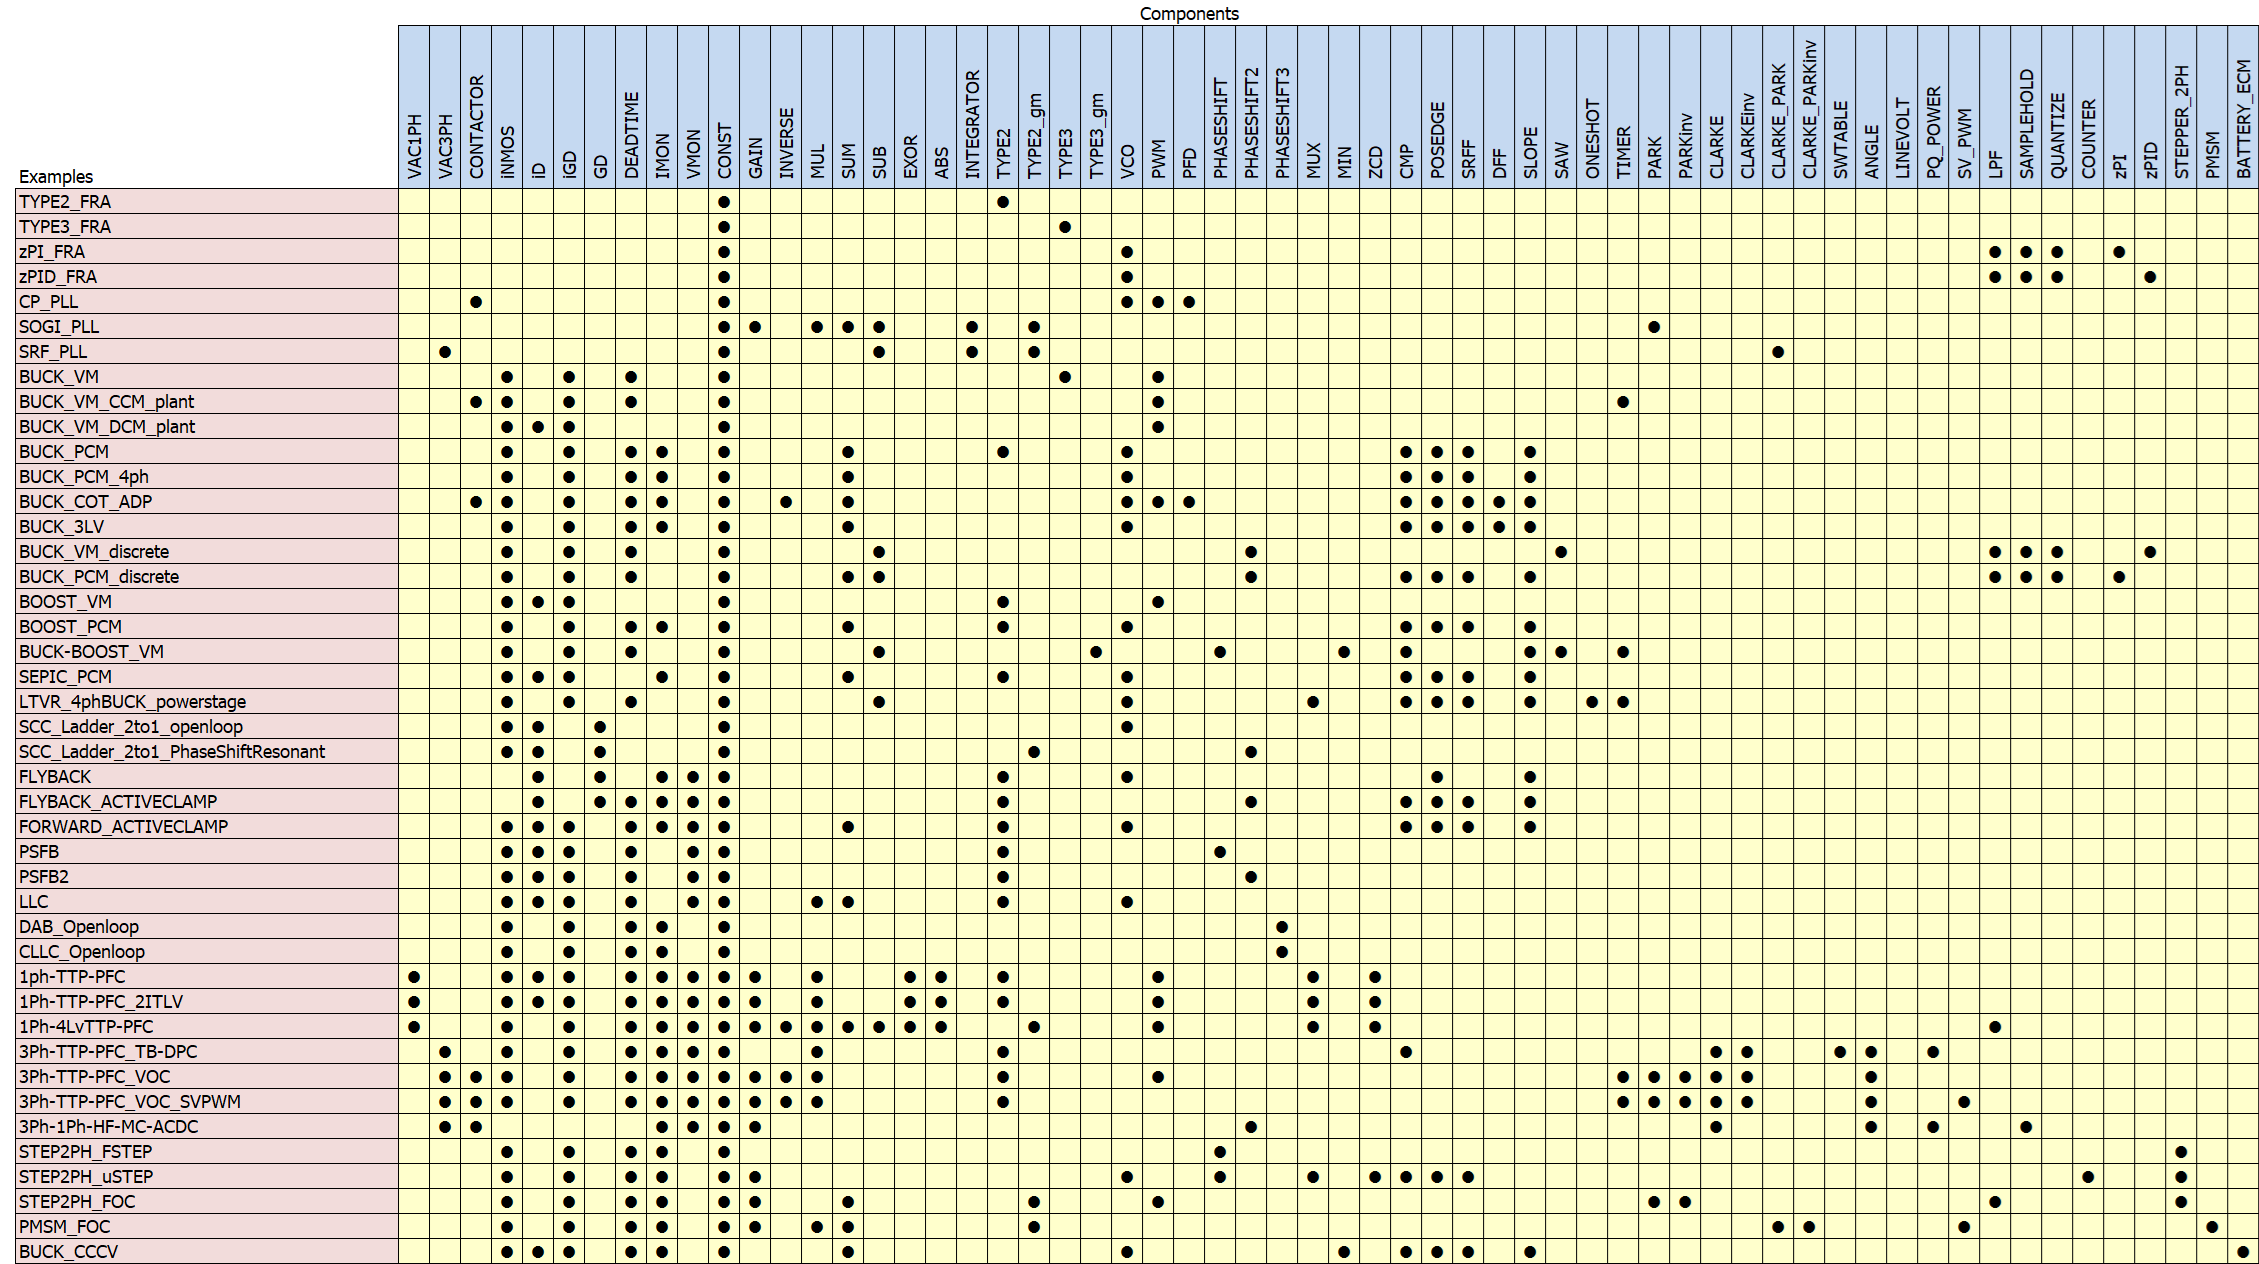
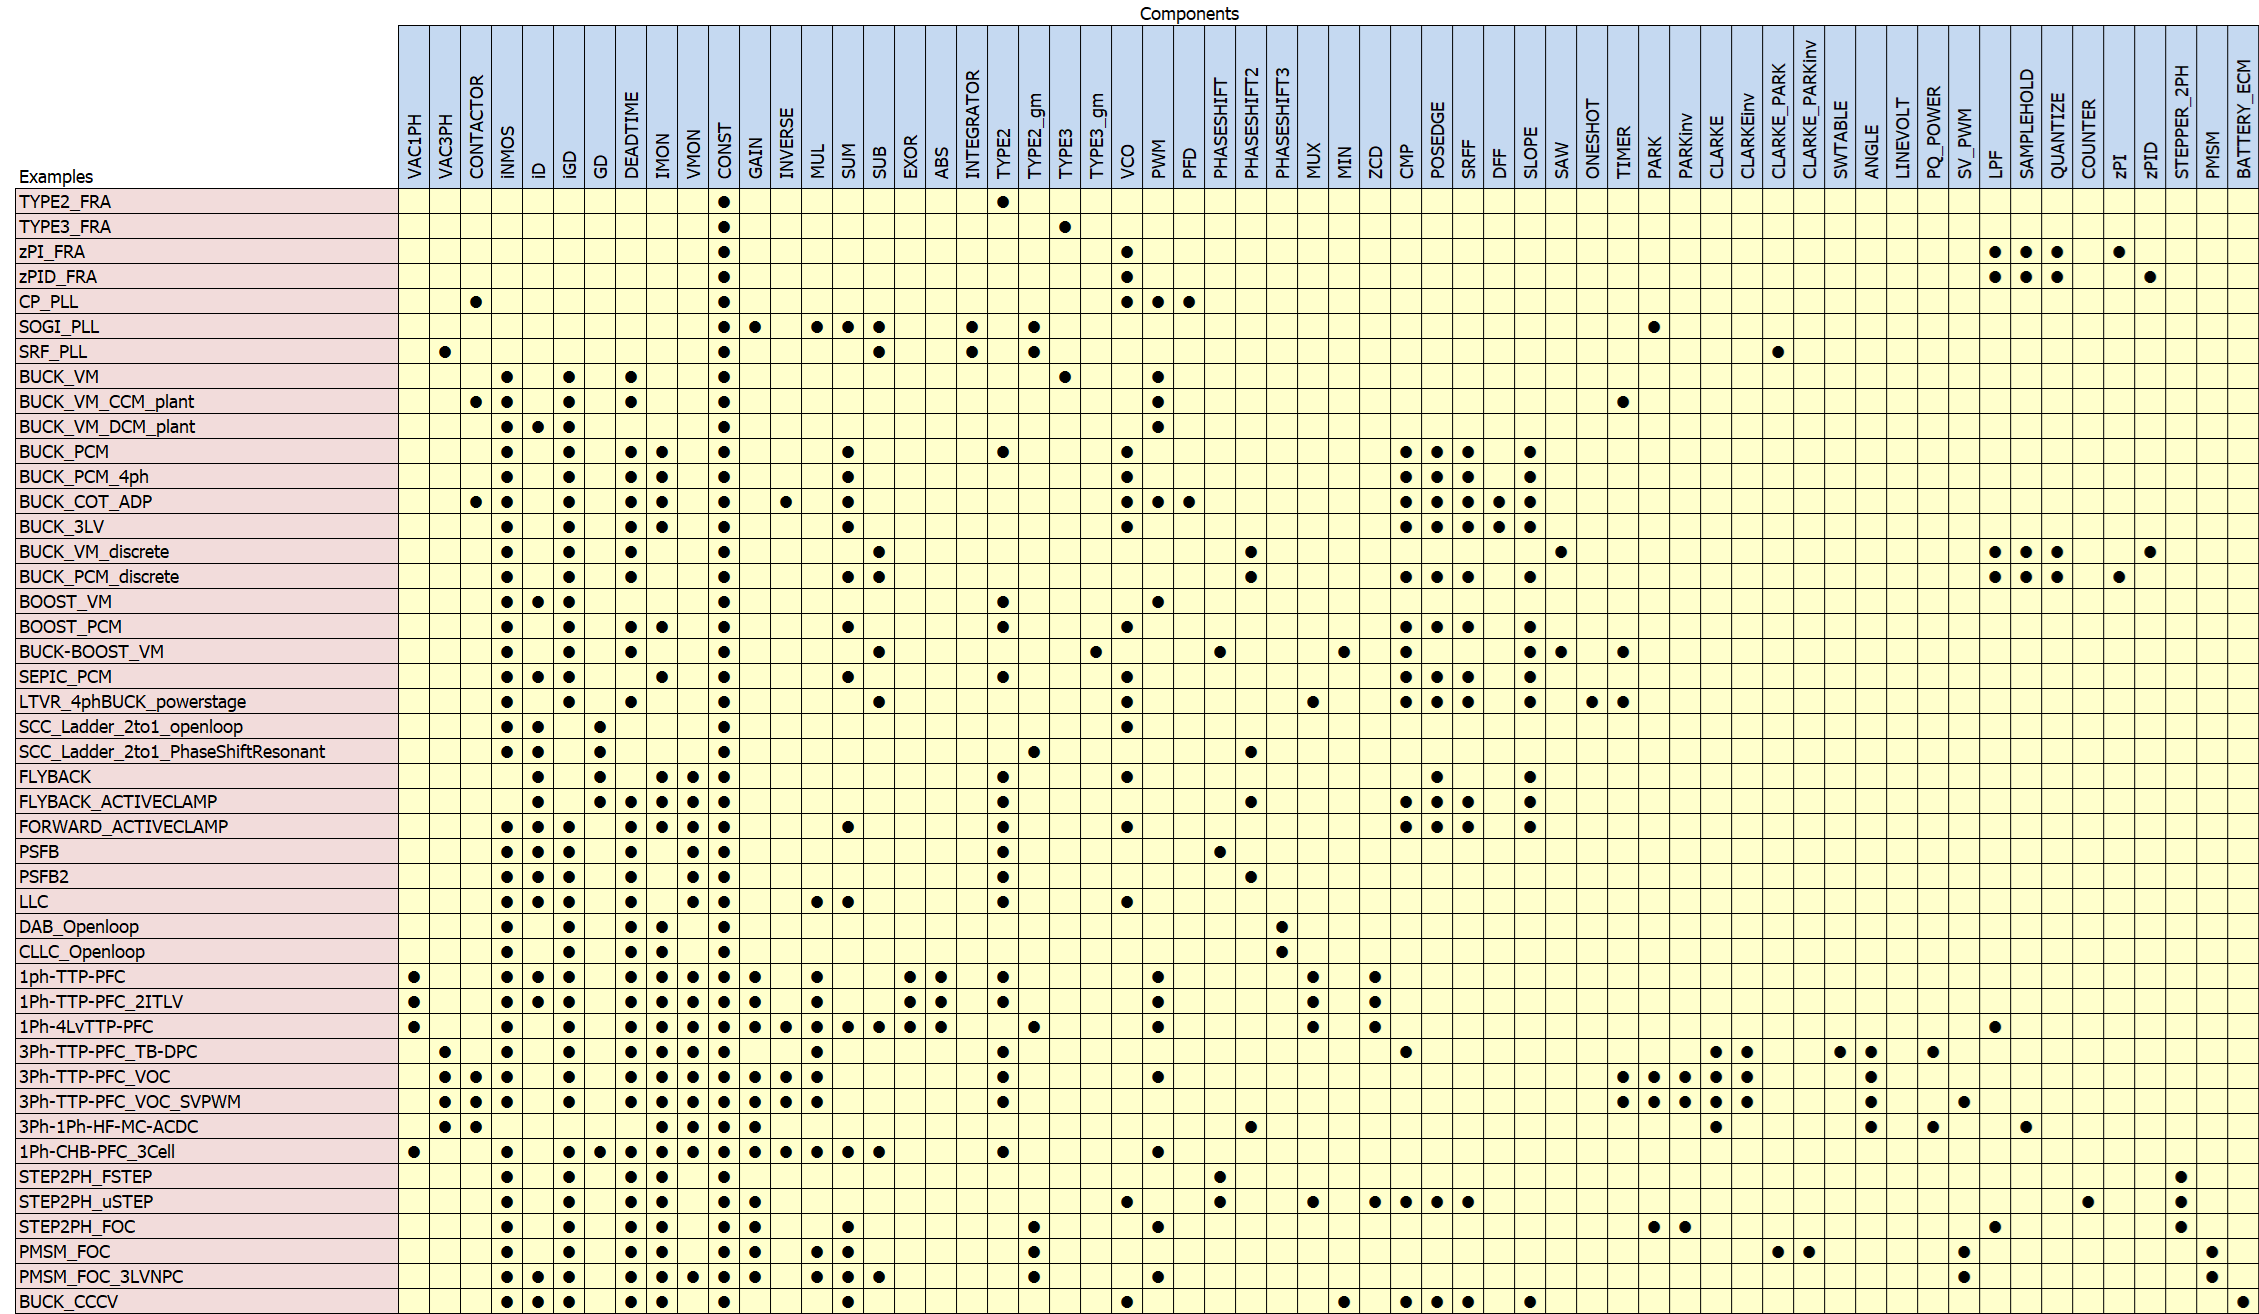
Update circuit gallery and component usage matrix

Changed region(s): [[0.0, 0.0309, 1.0, 1.0], [0.4958, 0.0, 0.5578, 0.0309]]

diff --git a/Gallery.md b/Gallery.md
@@ -21,6 +21,7 @@ This gallery presents example circuits included in **LTspicePowerSim**, all prov
   - [Single-Phase Totem-Pole](#single-phase-totem-pole)
   - [Three-Phase Totem-Pole](#three-phase-totem-pole)
   - [Matrix Converter](#matrix-converter)
+  - [Cascaded H-Bridge](#cascaded-h-bridge)
 - [Motor Drive & Control](#motor-drive--control)
   - [Stepper Motor Drives](#stepper-motor-drives)
   - [PMSM Drives](#pmsm-drives)
@@ -373,6 +374,19 @@ example/04_PowerFactorCorrection/03_MatrixConverter/3Ph-1Ph-HF-MC-ACDC/3Ph-1Ph-H
 )
 ---
 
+### Cascaded H-Bridge
+
+#### Single-Phase Cascaded H-Bridge PFC – Three Cells
+Single-phase cascaded H-bridge PFC using three cells and phase-shifted PWM.
+
+![LTspice schematic: Single-phase three-cell cascaded H-bridge PFC with phase-shifted PWM](
+example/04_PowerFactorCorrection/04_CascadedHBridge/1Ph-CHB-PFC_3Cell/1Ph-CHB-PFC_3Cell.png
+)
+---
+
+
+
+
 ## Motor Drive & Control
 
 ### Stepper Motor Drives
@@ -399,7 +413,6 @@ FOC-based current control for stepper motors.
 ![LTspice schematic: Two-phase stepper motor field-oriented control](
 example/05_MotorDriveAndControl/01_StepperMotorDrives/STEP2PH_FOC/STEP2PH_FOC.png
 )
-
 ---
 
 ### PMSM Drives
@@ -411,6 +424,16 @@ Field-oriented control implementation for PMSM drives.
 example/05_MotorDriveAndControl/02_PMSMDrives/PMSM_FOC/PMSM_FOC.png
 )
 ---
+
+#### PMSM – FOC with a Three-Level NPC Inverter
+Field-oriented PMSM control using a three-level neutral-point-clamped (NPC) inverter, demonstrating startup and load response with a 1,200 V DC bus and a 3,000 rpm speed reference.
+
+![LTspice schematic: PMSM field-oriented control with a three-level NPC inverter](
+example/05_MotorDriveAndControl/02_PMSMDrives/PMSM_FOC_3LVNPC/PMSM_FOC_3LVNPC.png
+)
+---
+
+
 
 ## Battery & Energy Storage
 
